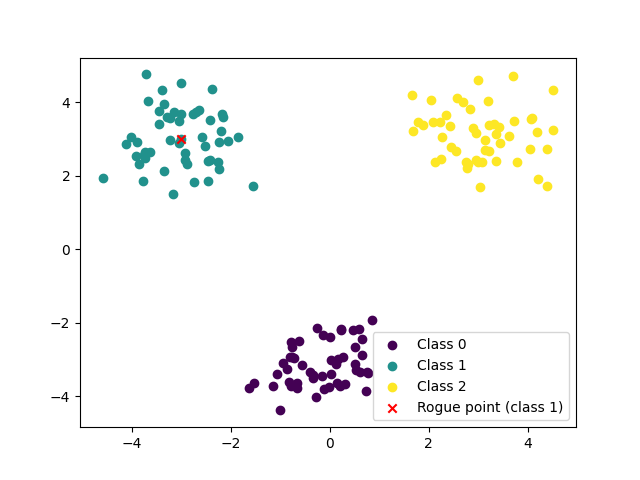
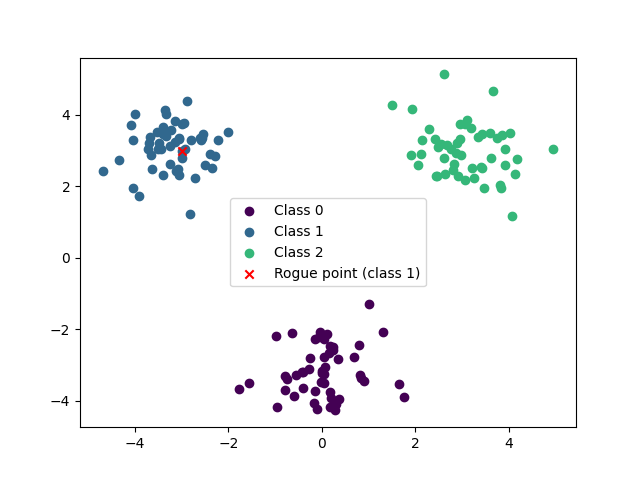
FEAT: Generate validation data and load data in run experiment

diff --git a/exp1/experiment_run.py b/exp1/experiment_run.py
@@ -2,14 +2,41 @@
 import hydra
 import wandb
 from src.modelling.UnlearningManager import UnlearningManager
+import torch
+import os
 
-def load_dataset():
-    # TODO load dataset
-    pass
 
-@hydra.main(config_path="configs/exp1", config_name="config")
+def load_dataset(file):
+    import numpy as np
+
+    npz_file = np.load(file)
+    X = npz_file["X"]
+    y = npz_file["y"]
+    forget_idx = npz_file["rogue_point_idx"]
+
+    return torch.from_numpy(X), torch.from_numpy(y), int(forget_idx)
+
+@hydra.main(config_path=".", config_name="config")
 def main(cfg):
-    print(cfg)
+
+    # ============= Load training and validation data =============
+    dataset_path = cfg.data.dataset
+    # path relative to current working directory
+    dataset_path = os.path.join(os.path.dirname(__file__), dataset_path)
+    validation_path = os.path.join(os.path.dirname(__file__), "data/validation_data.npz")
+
+    # ============= Load data =============
+    X, y, forget_idx = load_dataset(dataset_path)
+    # retrain data should be all the data except the index of the rogue point
+    X_val, y_val, _ = load_dataset(validation_path)
+
+    # retrain data should be all the data except the index of the rogue point
+    all_indices = torch.arange(X.shape[0])
+    X_retrain, y_retrain = X[all_indices != forget_idx], y[all_indices != forget_idx]
+    X_forget, y_forget = X[all_indices == forget_idx], y[all_indices == forget_idx]
+    
+    # X, y, X_val, y_val, X_retrain, y_retrain, X_forget, y_forget
+
 
     model = cfg.model.name
     n_epochs = cfg.model.n_epochs
@@ -17,23 +44,22 @@ def main(cfg):
     batch_size = cfg.model.batch_size
     seed = cfg.model.seed
 
-
     logger = wandb.init(project_name="exp1", config=cfg)
 
     unlearning_manager = UnlearningManager(config=cfg, device="cuda", wandb=logger, track_performance=True)
-    data = load_dataset("")
     
+    
+
     if model.name == "retrain":
         raise NotImplementedError("Retrain is not implemented")
 
         data.retain
-        # TODO train model on retrain dataset
+        # TODO Train a model on the retrain dataset, X_retrain, y_retrain
+
+        # 
         
-    elif model.name == "unlearn1":
-        raise NotImplementedError("Retrain is not implemented")
-        pass
-    elif model.name == "unlearn2":
-        pass
+    else:
+        #TODO apply_unlearning(model, X_forget, y_forget, X_val, y_val)
 
 
 if __name__ == "__main__":

diff --git a/exp1/generate_data.py b/exp1/generate_data.py
@@ -43,11 +43,12 @@ def generate_data(centroids: np.ndarray = None, stds: np.ndarray = None, sizes: 
 
 def plot_data(X, y, rogue_point_idx=None):
     # nicer colors
-    color_map = plt.cm.get_cmap('viridis', 3)
+    color_map = plt.colormaps['viridis']
+    colors = [color_map(i/3) for i in range(3)]  # Create 3 evenly spaced colors
     num_classes = np.unique(y).size
 
     for class_idx in range(num_classes):
-        plt.scatter(X[y == class_idx, 0], X[y == class_idx, 1], c=color_map(class_idx), label=f'Class {class_idx}')
+        plt.scatter(X[y == class_idx, 0], X[y == class_idx, 1], color=colors[class_idx], label=f'Class {class_idx}')
     
     if rogue_point_idx is not None:
         plt.scatter(X[rogue_point_idx, 0], X[rogue_point_idx, 1], c='red', marker='x', label=f'Rogue point (class {y[rogue_point_idx]})')
@@ -72,11 +73,16 @@ if __name__ == "__main__":
     centroids = np.array([[0, -3], [-3, 3], [3, 3]])
     stds = np.array([[0.7, 0.7], [0.7, 0.7], [0.7, 0.7]])
     sizes = np.array([50, 50, 50])
+    validation_sizes = np.array([20, 20, 20])
 
     data_folder = 'exp1/data'
     data_plots_folder = os.path.join(data_folder, 'plots')
     os.makedirs(data_plots_folder, exist_ok=True)
 
+    X_val, y_val, _ = generate_data(centroids, stds, validation_sizes)
+    save_data(X_val, y_val, None, os.path.join(data_folder, 'validation_data.npz'))
+    save_fig(plot_data(X_val, y_val), 'validation_data', data_plots_folder)
+    plt.close()
 
     # %%
     # 1. Rogue point with same distance to all centroids
